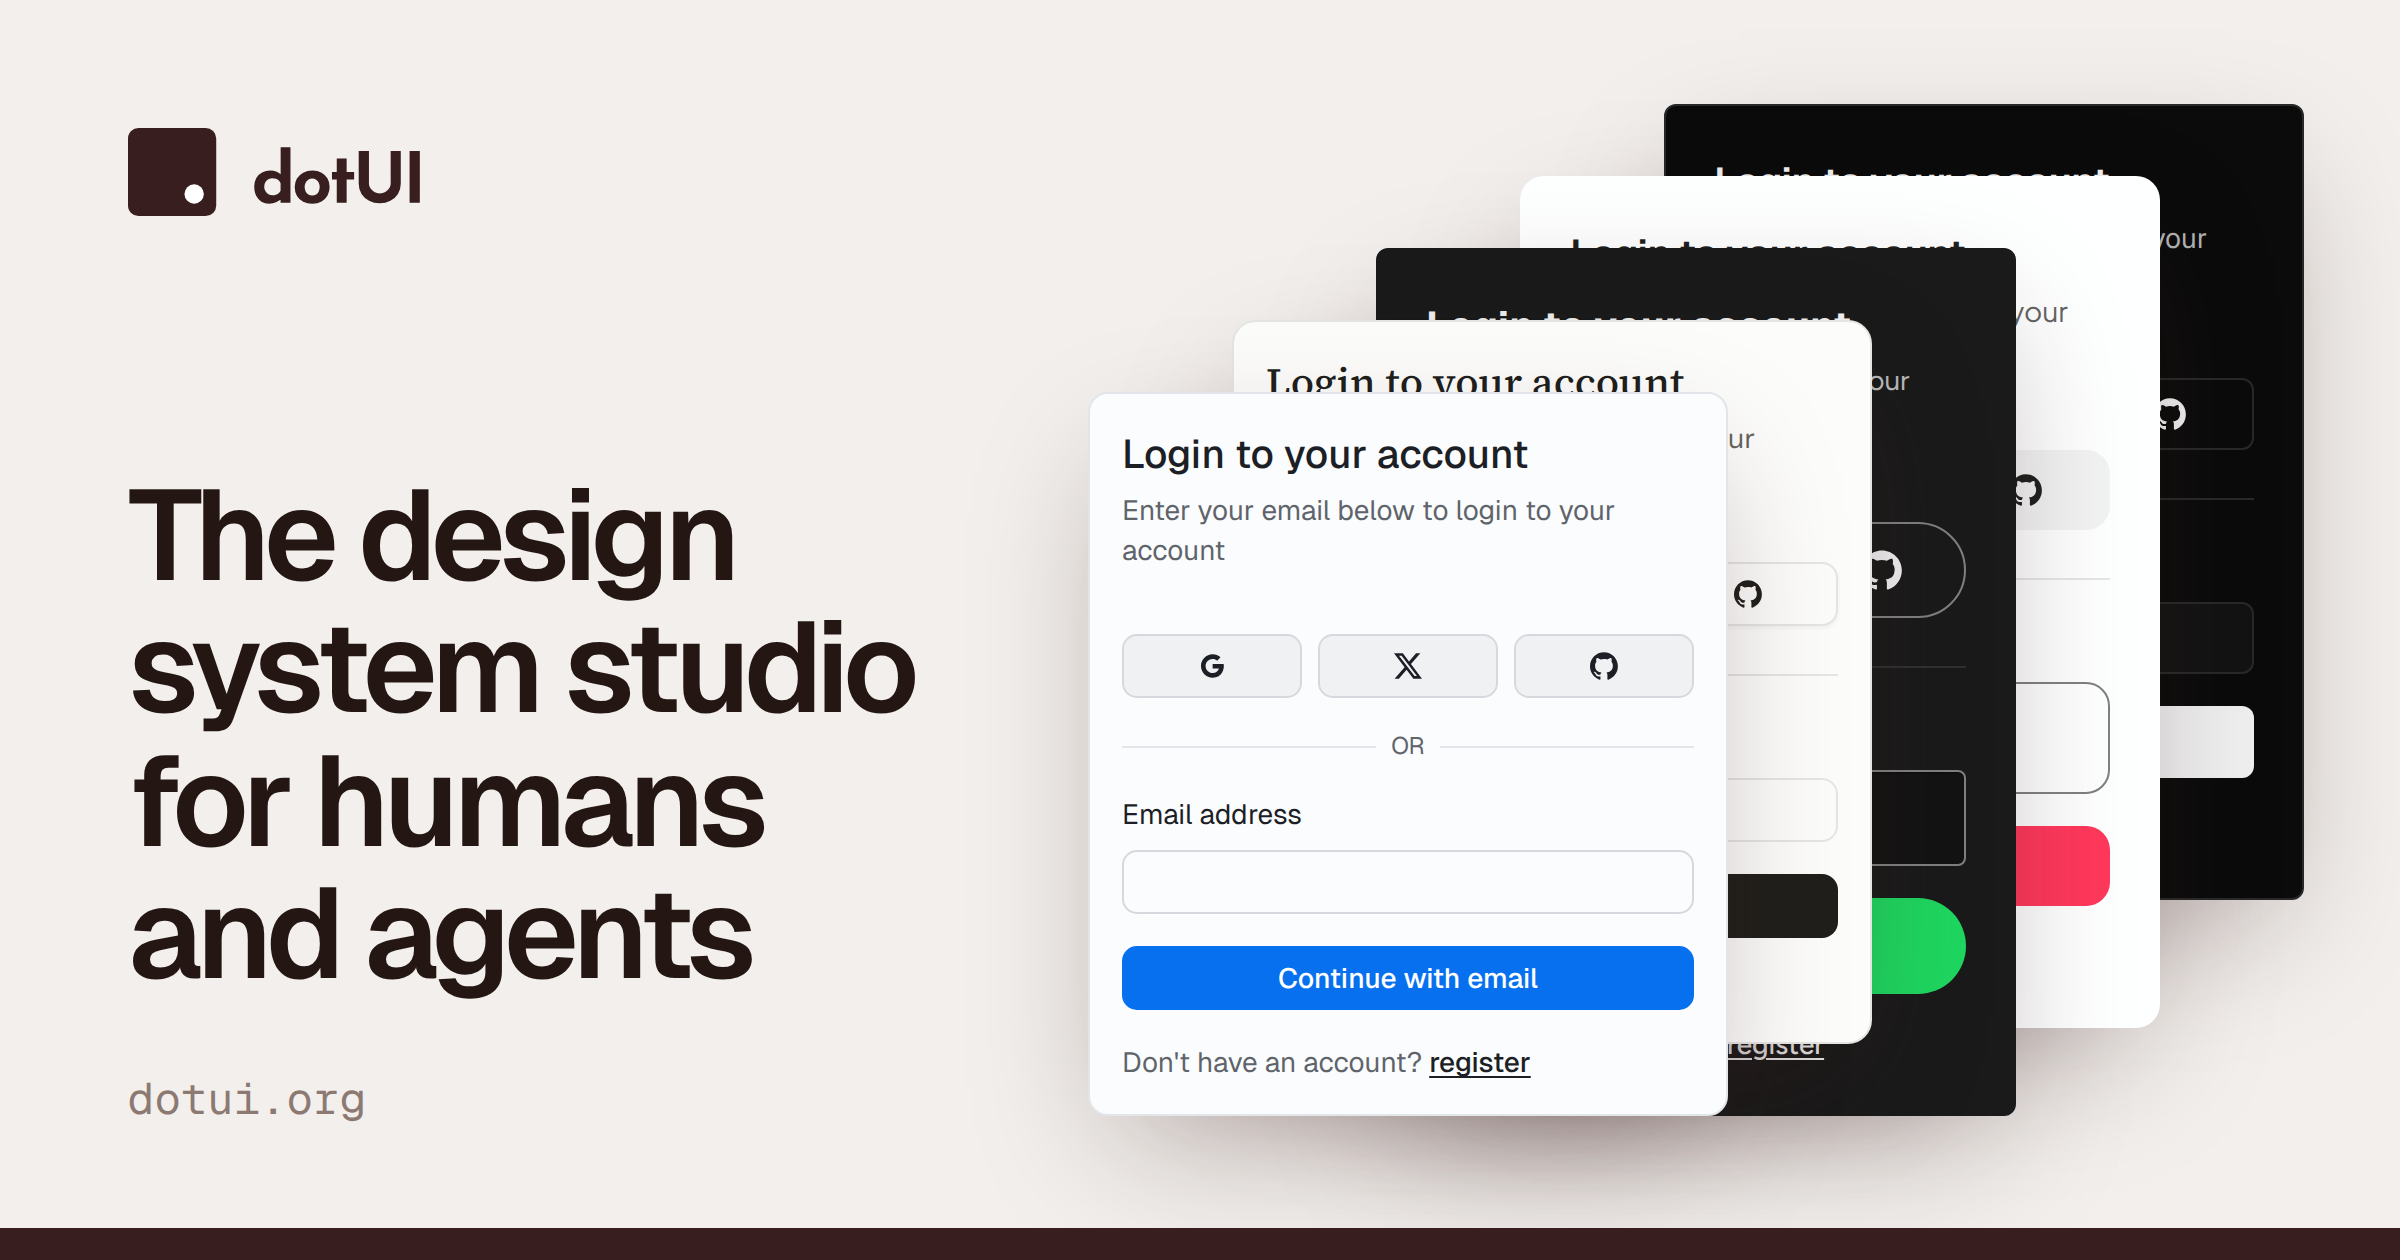
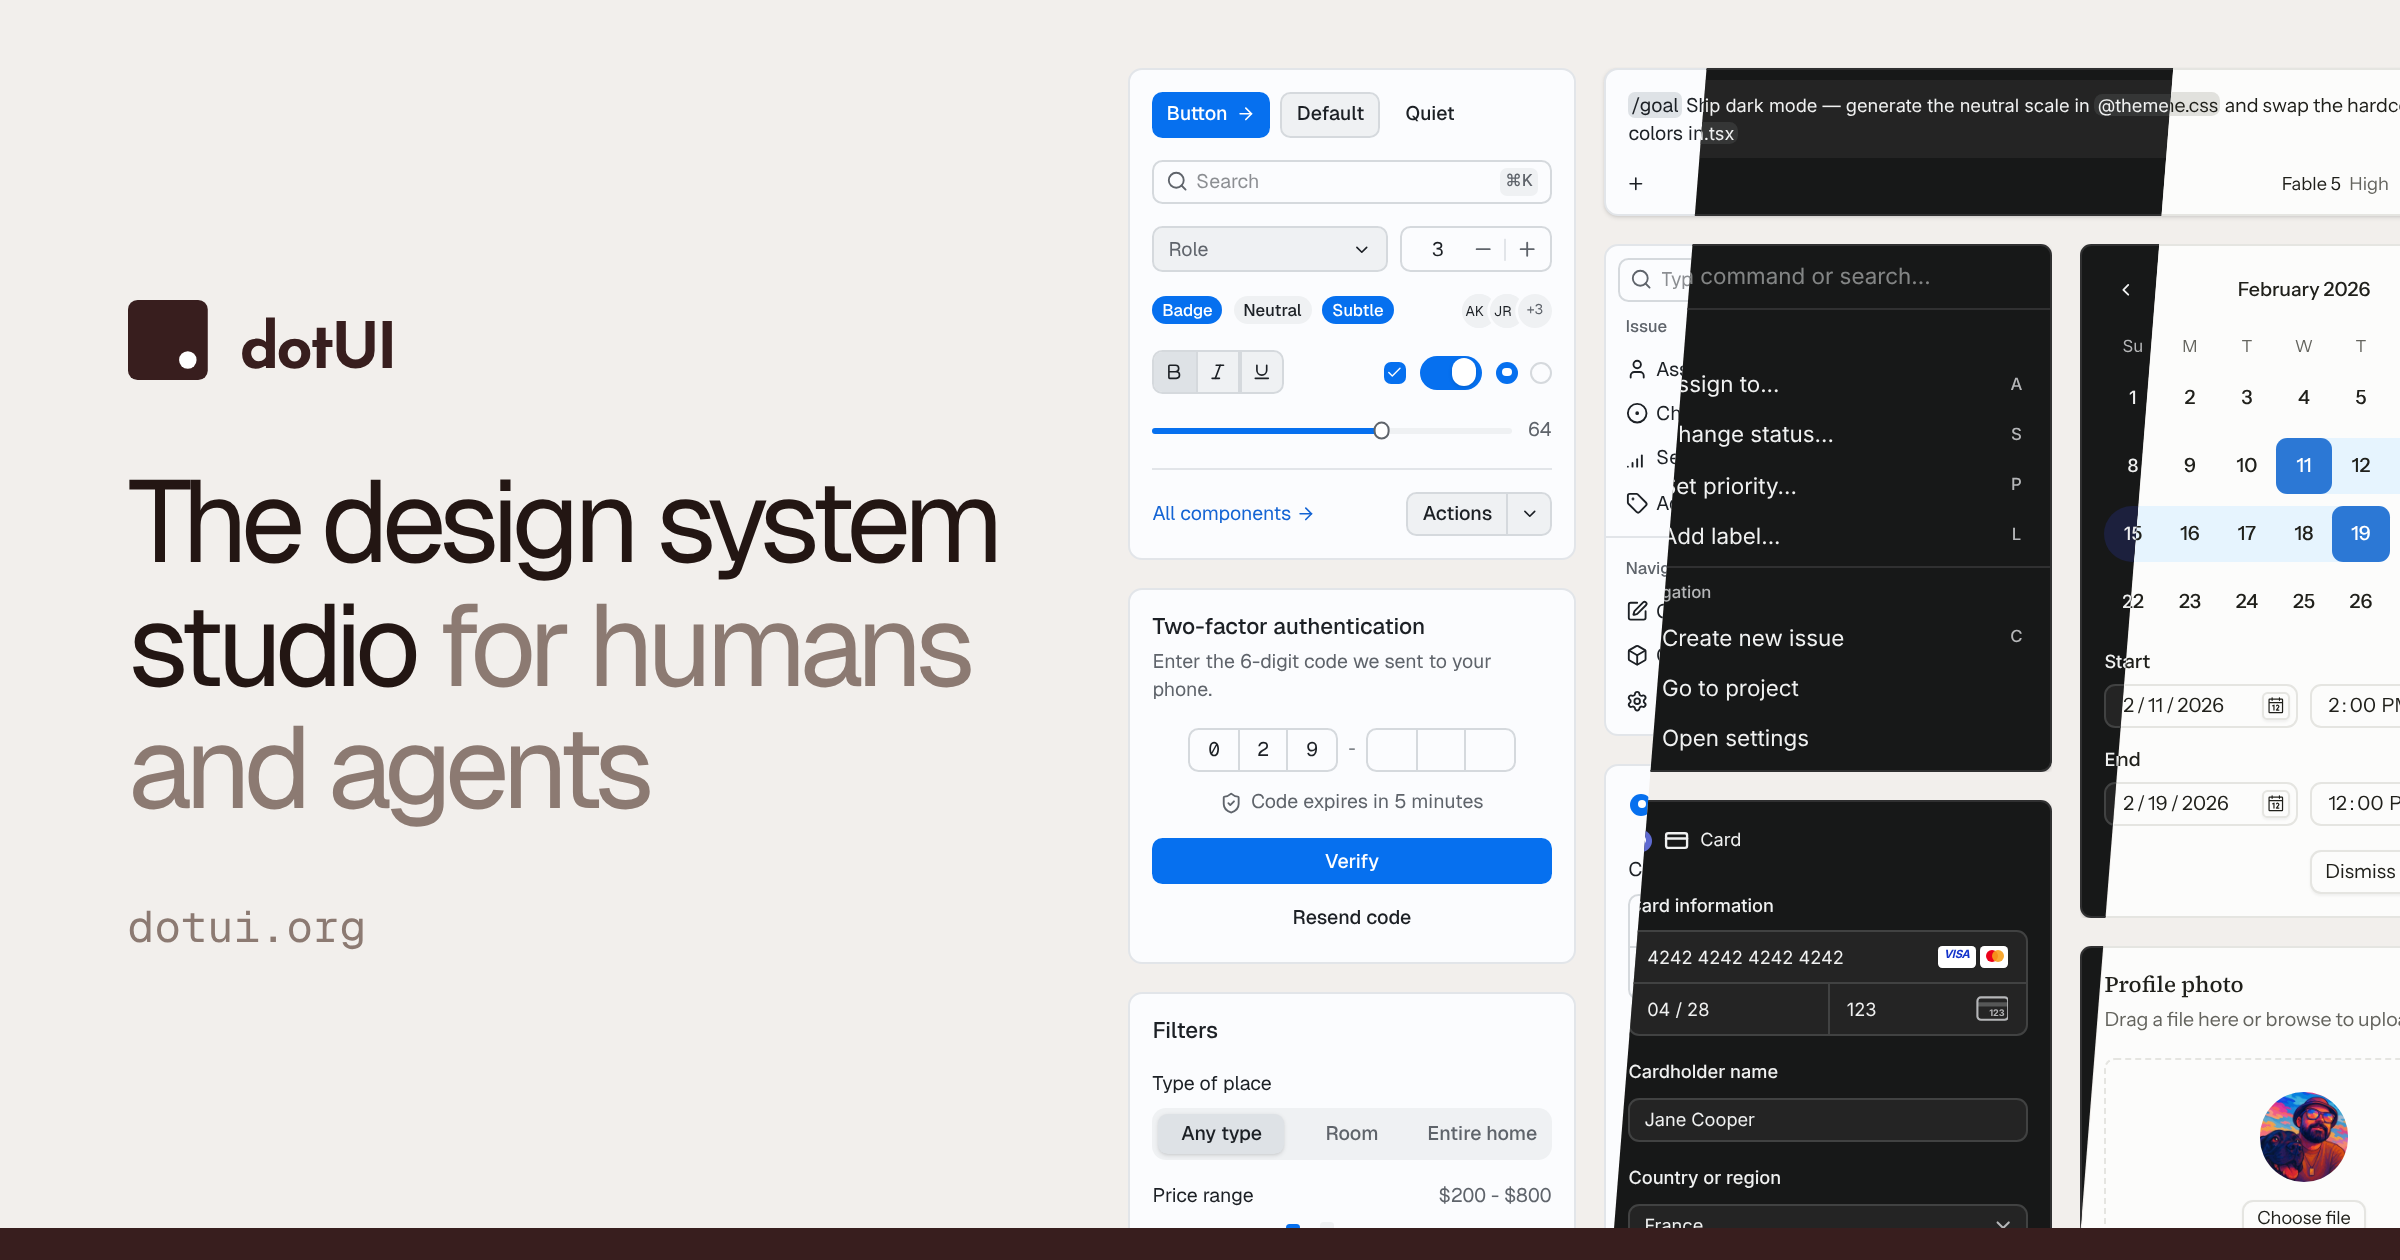
feat(brand): cover shows the cards grid in diagonal preset bands
The landing cards grid (three columns) under Origin, Linear dark and
Claude, cut into diagonal bands, replaces the fanned login cards. The
tagline uses the landing hero's type and sits vertically centred with the
logo. CardsGrid gains `side={false}` for a fixed three-column grid.

Claude-Session: https://claude.ai/code/session_0173tEVFVdYHpvC86SQVDUR2

diff --git a/www/src/modules/marketing/cover.tsx b/www/src/modules/marketing/cover.tsx
@@ -4,46 +4,50 @@ import { useEffect } from "react"
 
 import { siteConfig } from "@/config/site"
 import { DesignSystemProvider } from "@/lib/styles"
-import { LoginForm } from "@/components/showcase/login-form"
+import { CardsGrid } from "@/components/showcase/cards-grid"
 import { resolvePreset } from "@/modules/presets"
 
-/* Back to front: each layer is the same card under another preset. */
-const LAYERS: { preset: string; mode: "light" | "dark" }[] = [
-  { preset: "vercel", mode: "dark" },
-  { preset: "airbnb", mode: "light" },
-  { preset: "spotify", mode: "dark" },
-  { preset: "claude", mode: "light" },
+/* Left to right: the same cards grid under each preset, cut into diagonal bands. */
+const BANDS: { preset: string; mode: "light" | "dark" }[] = [
   { preset: "origin", mode: "light" },
+  { preset: "linear", mode: "dark" },
+  { preset: "claude", mode: "light" },
 ]
+const SKEW = 8 // % of the grid's width each band edge leans by, top to bottom.
 
-/* The social cover: README/GitHub preview and the site's share image.
+function bandClip(index: number) {
+  const width = 100 / BANDS.length
+  const from = index === 0 ? -100 : index * width
+  const to = index === BANDS.length - 1 ? 200 : (index + 1) * width
+  return `polygon(${from + SKEW}% 0, ${to + SKEW}% 0, ${to - SKEW}% 100%, ${from - SKEW}% 100%)`
+}
+
+const [lead, rest] = siteConfig.tagline.split(/ (?=for )/)
+
+/* The social cover: the GitHub social preview and the site's share image.
    `scripts/capture-cover.mts` screenshots it at each size it ships in. */
 export function Cover() {
   return (
-    <div className="relative flex h-svh w-svw overflow-hidden bg-[#f2efec] font-sans text-[#231613]">
-      <div className="relative z-10 flex w-[44%] shrink-0 flex-col justify-between py-16 pl-16">
+    <div className="relative h-svh w-svw overflow-hidden bg-[#f2efec] font-sans text-[#231613]">
+      <div className="absolute inset-y-0 left-16 z-10 flex w-[28rem] flex-col justify-center">
         <img
           src="/brand/dotui-wordmark.svg"
           alt="dotUI"
-          className="h-11 w-fit"
+          className="h-10 w-fit"
         />
-        <div>
-          <h1 className="text-[64px] leading-[1.04] font-semibold tracking-[-0.045em] text-balance">
-            {siteConfig.tagline}
-          </h1>
-          <p className="mt-8 font-mono text-[22px] text-[#8c7a72]">dotui.org</p>
-        </div>
+        <h1 className="mt-10 font-features-['calt'_0,'rlig','ss11'] text-[58px] leading-[1.06] font-normal tracking-[-0.06em] text-balance antialiased">
+          {lead} <span className="text-[#8c7a72]">{rest}</span>
+        </h1>
+        <p className="mt-8 font-mono text-[22px] text-[#8c7a72]">dotui.org</p>
       </div>
-      <div className="relative flex-1">
-        {LAYERS.map(({ preset, mode }, index) => {
+      <div className="absolute top-12 left-[47%] w-[1000px] zoom-[0.7]">
+        {BANDS.map(({ preset, mode }, index) => {
           const designSystem = resolvePreset(preset)
-          // Fanned up and to the right from the front card, pinned to the right edge.
-          const step = LAYERS.length - 1 - index
           return (
             <div
               key={preset}
-              className="absolute"
-              style={{ right: 48 + index * 72, top: 196 - step * 36 }}
+              className="absolute inset-x-0 top-0"
+              style={{ clipPath: bandClip(index) }}
             >
               <DesignSystemProvider
                 scoped
@@ -54,7 +58,7 @@ export function Cover() {
                 color={designSystem.color}
                 icons={designSystem.icons}
               >
-                <LoginForm className="w-[360px] shadow-[0_24px_64px_-16px_rgb(56_30_30/0.35)]" />
+                <CardsGrid side={false} />
               </DesignSystemProvider>
             </div>
           )
@@ -70,7 +74,7 @@ function ReadySignal() {
   useEffect(() => {
     let cancelled = false
     void document.fonts.ready
-      .then(() => new Promise((r) => setTimeout(r, 500)))
+      .then(() => new Promise((r) => setTimeout(r, 1000)))
       .then(() => document.fonts.ready)
       .then(() => {
         if (!cancelled) document.documentElement.dataset.coverReady = ""

diff --git a/www/src/components/showcase/cards-grid.tsx b/www/src/components/showcase/cards-grid.tsx
@@ -140,13 +140,19 @@ function CardColumn({
 // never needs to re-render the cards themselves.
 export const CardsGrid = memo(function CardsGrid({
   className,
+  side = true,
 }: {
   className?: string
+  /** The responsive 4th column; off for a fixed three-column grid. */
+  side?: boolean
 }) {
   return (
     <div
       className={cn(
-        "grid grid-cols-[repeat(3,18rem)] items-start gap-5 sm:grid-cols-[repeat(4,18rem)] lg:grid-cols-3 xl:grid-cols-4",
+        "grid items-start gap-5",
+        side
+          ? "grid-cols-[repeat(3,18rem)] sm:grid-cols-[repeat(4,18rem)] lg:grid-cols-3 xl:grid-cols-4"
+          : "grid-cols-3",
         className,
       )}
     >
@@ -158,7 +164,9 @@ export const CardsGrid = memo(function CardsGrid({
           <CardColumn cards={MAIN_RIGHT} />
         </div>
       </div>
-      <CardColumn cards={SIDE} className="hidden sm:flex lg:hidden xl:flex" />
+      {side && (
+        <CardColumn cards={SIDE} className="hidden sm:flex lg:hidden xl:flex" />
+      )}
     </div>
   )
 })
